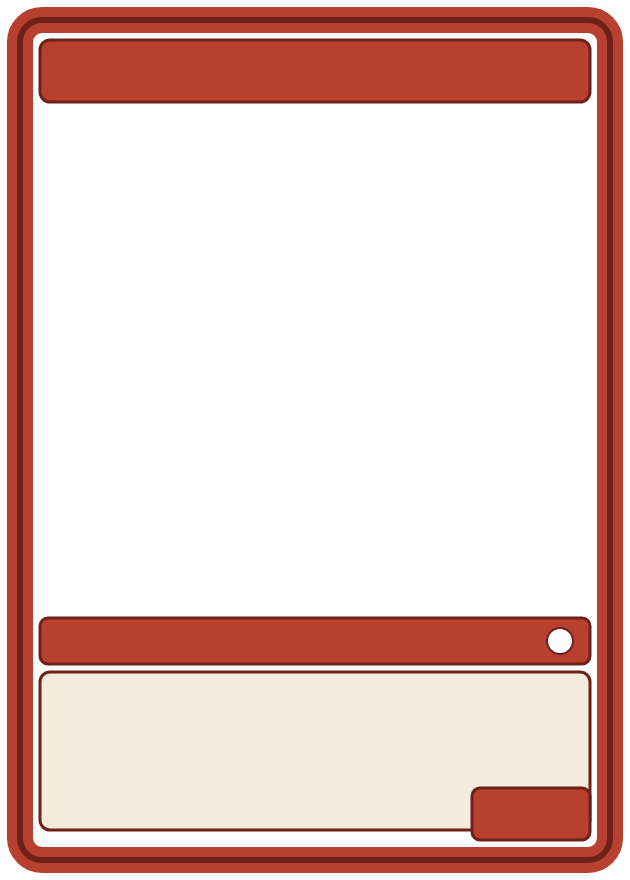
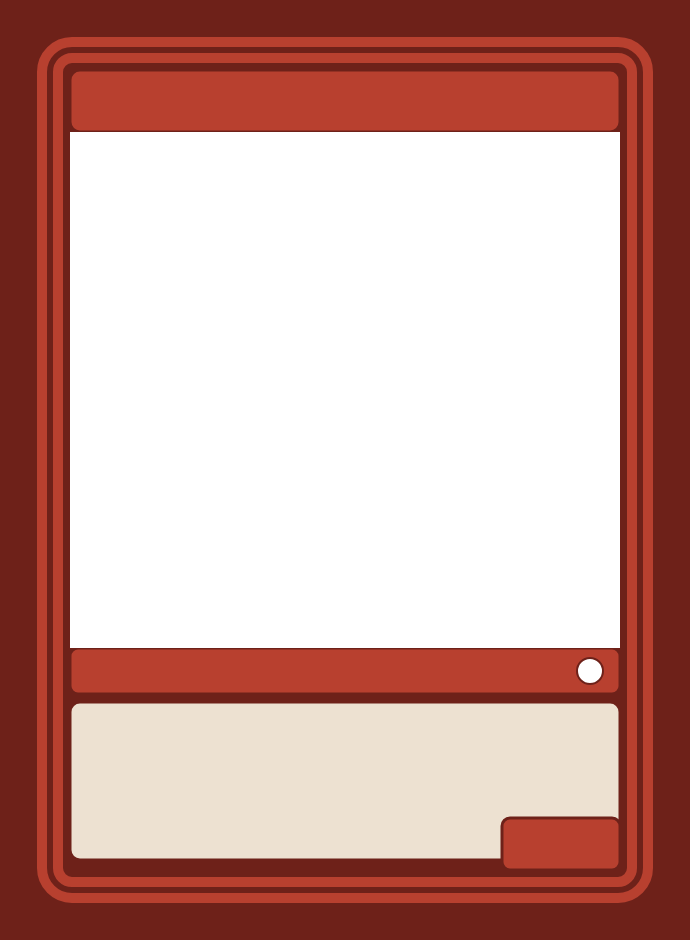
Alpha-aware hit testing; frames/images default to full bleed, not cut
Two independent fixes:

1. Clicking a transparent part of a layer (a frame's art window, most
   notably) now falls through to whatever's underneath instead of
   selecting that layer — new useAlphaHitCache hook wraps Konva's
   cache()+drawHitFromCache(), applied to frame and image layers.
   drawHitFromCache is Shape-only, so for an image layer (rendered as a
   Group-wrapping-KonvaImage, for clipFunc) the cache goes on the inner
   shape specifically, with clicks still bubbling to the Group's handler.

2. New Frame/Image layers (including Scryfall's art layer) now default
   to full-bleed size instead of cut/trim size. Testing showed no actual
   clipping bug anywhere in the pipeline — a manually-resized layer
   already rendered/exported correctly into the bleed margin — the
   *default* size just never reached that far, leaving the ~3mm trim
   margin uncovered (background color instead of a continuation of the
   frame's border, exactly the gap bleed margins exist to prevent).
   Regenerated the built-in placeholder frame art at true bleed
   dimensions to match (a uniform mm margin, not a proportional scale,
   so stretching the old cut-sized art would have distorted it slightly)
   — fixed by filling the canvas for edge-to-edge border coverage, then
   drawing the existing layout offset by the new margin, then punching
   the art window back out to transparent with clearRect (the base fill
   would otherwise have painted over it too).
[…]

diff --git a/apps/editor/src/components/LayerNode.tsx b/apps/editor/src/components/LayerNode.tsx
@@ -1,3 +1,4 @@
+import { useRef } from "react";
 import { Group, Image as KonvaImage, Rect, Ellipse, Circle, Text } from "react-konva";
 import type Konva from "konva";
 import { computeObjectFit, shrinkTextToFit, type Layer } from "@card-studio/scene-schema";
@@ -5,6 +6,7 @@ import { EDITOR_DPI, mmToStagePx } from "../geometry";
 import { useHtmlImage } from "../hooks/useHtmlImage";
 import { useHtmlImages } from "../hooks/useHtmlImages";
 import { useFontsReady } from "../hooks/useFontsReady";
+import { useAlphaHitCache } from "../hooks/useAlphaHitCache";
 import { getFrameAssetUrl } from "../frameAssets";
 import { getRarityAssetUrl } from "../rarityAssets";
 import { getSymbolAssetUrl, isGenericManaToken } from "../symbolAssets";
@@ -41,6 +43,29 @@ export function LayerNode({ layer, onSelect, registerRef, onDragStart, onDragMov
   const image = useHtmlImage(layer.type === "image" ? (rarityAssetUrl ?? layer.src) : undefined);
   const frameAssetUrl = layer.type === "frame" ? getFrameAssetUrl(layer.assetId) : undefined;
   const frameImage = useHtmlImage(frameAssetUrl);
+
+  // Clicking a transparent part of a frame (its art window, most notably)
+  // or an image layer shouldn't select that layer — it should fall through
+  // to whatever's underneath, the same as if the transparent layer weren't
+  // there. Konva's default hit region for an Image is its whole rectangle
+  // regardless of alpha, so both need an explicit alpha-aware hit cache;
+  // see useAlphaHitCache's doc comment. drawHitFromCache is a Shape-only
+  // method (Group/Container doesn't have it, since it draws nothing of its
+  // own) — for the image layer, that means caching the inner <KonvaImage>
+  // shape itself, not the wrapping Group the drag/select/transform handlers
+  // live on; that's fine, since a hit on a listening descendant still
+  // bubbles up to fire the Group's onClick like any other Konva event.
+  // Re-run whenever the loaded image or the layer's own box changes — the
+  // cache is a rasterized snapshot, not live.
+  const frameNodeRef = useRef<Konva.Image | null>(null);
+  useAlphaHitCache(frameNodeRef, [frameImage, mmToStagePx(layer.width), mmToStagePx(layer.height)]);
+  const imageShapeRef = useRef<Konva.Image | null>(null);
+  useAlphaHitCache(imageShapeRef, [
+    image,
+    mmToStagePx(layer.width),
+    mmToStagePx(layer.height),
+    layer.type === "image" ? layer.fit : undefined,
+  ]);
 
   const common = {
     id: layer.id,
@@ -109,7 +134,16 @@ export function LayerNode({ layer, onSelect, registerRef, onDragStart, onDragMov
 
   if (layer.type === "frame") {
     if (frameAssetUrl && frameImage) {
-      return <KonvaImage {...common} image={frameImage} />;
+      return (
+        <KonvaImage
+          {...common}
+          image={frameImage}
+          ref={(node) => {
+            frameNodeRef.current = node;
+            registerRef(node);
+          }}
+        />
+      );
     }
     // Unresolved asset id (unknown/legacy) or still loading: flat-tint placeholder.
     return (
@@ -222,6 +256,7 @@ export function LayerNode({ layer, onSelect, registerRef, onDragStart, onDragMov
     return (
       <Group
         {...common}
+        ref={registerRef}
         clipFunc={
           fit.clip
             ? (ctx) => {
@@ -231,7 +266,16 @@ export function LayerNode({ layer, onSelect, registerRef, onDragStart, onDragMov
         }
       >
         {image && (
-          <KonvaImage image={image} x={fit.offsetX} y={fit.offsetY} width={fit.drawWidth} height={fit.drawHeight} listening={false} />
+          <KonvaImage
+            image={image}
+            x={fit.offsetX}
+            y={fit.offsetY}
+            width={fit.drawWidth}
+            height={fit.drawHeight}
+            ref={(node) => {
+              imageShapeRef.current = node;
+            }}
+          />
         )}
       </Group>
     );

diff --git a/apps/editor/src/components/Toolbar.tsx b/apps/editor/src/components/Toolbar.tsx
@@ -83,13 +83,15 @@ export function Toolbar({ stageRef }: { stageRef: RefObject<Konva.Stage> }) {
       opacity: 1,
       visible: true,
       locked: false,
-      // New frames size to the cut/trim dimensions — the actual card —
-      // not the full-bleed canvas, centered the same way the cut-line
-      // guide is.
-      x: (design.size.widthMm - design.size.cutWidthMm) / 2,
-      y: (design.size.heightMm - design.size.cutHeightMm) / 2,
-      width: design.size.cutWidthMm,
-      height: design.size.cutHeightMm,
+      // New frames size to the full-bleed canvas, not just the cut/trim
+      // dimensions — frame art needs to extend past the trim line, or the
+      // printed card shows a background-color gap around the edge once
+      // cut. See generate-placeholder-frames.mjs for how the built-in
+      // frame art itself was authored to match.
+      x: 0,
+      y: 0,
+      width: design.size.widthMm,
+      height: design.size.heightMm,
     });
 
   const addText = () =>
@@ -206,13 +208,16 @@ export function Toolbar({ stageRef }: { stageRef: RefObject<Konva.Stage> }) {
     const { width: naturalWidth, height: naturalHeight } = await getImageNaturalSize(file);
     const imageAspect = naturalWidth / naturalHeight;
 
-    // Default to the image's own aspect ratio, contained within the cut
-    // area (centered) rather than a fixed box — a fixed box ignoring the
-    // image's shape is what caused new images to render squished.
-    const cutW = design.size.cutWidthMm;
-    const cutH = design.size.cutHeightMm;
-    const width = imageAspect > cutW / cutH ? cutW : cutH * imageAspect;
-    const height = imageAspect > cutW / cutH ? cutW / imageAspect : cutH;
+    // Default to the image's own aspect ratio, contained within the
+    // full-bleed canvas (centered) rather than a fixed box — a fixed box
+    // ignoring the image's shape is what caused new images to render
+    // squished, and containing within just the cut area (rather than
+    // bleed) is what left a background-color gap around art meant to
+    // extend to the card's true edge.
+    const canvasW = design.size.widthMm;
+    const canvasH = design.size.heightMm;
+    const width = imageAspect > canvasW / canvasH ? canvasW : canvasH * imageAspect;
+    const height = imageAspect > canvasW / canvasH ? canvasW / imageAspect : canvasH;
 
     addLayer({
       id: newId(),
@@ -267,10 +272,12 @@ export function Toolbar({ stageRef }: { stageRef: RefObject<Konva.Stage> }) {
       try {
         const { width: naturalWidth, height: naturalHeight } = await getRemoteImageSize(fields.artCropUrl);
         const imageAspect = naturalWidth / naturalHeight;
-        const cutW = design.size.cutWidthMm;
-        const cutH = design.size.cutHeightMm;
-        const width = imageAspect > cutW / cutH ? cutW : cutH * imageAspect;
-        const height = imageAspect > cutW / cutH ? cutW / imageAspect : cutH;
+        // Contained within the full-bleed canvas, not just cut — same
+        // reasoning as addImage's default sizing.
+        const canvasW = design.size.widthMm;
+        const canvasH = design.size.heightMm;
+        const width = imageAspect > canvasW / canvasH ? canvasW : canvasH * imageAspect;
+        const height = imageAspect > canvasW / canvasH ? canvasW / imageAspect : canvasH;
         artLayer = {
           id: newId(),
           name: `${fields.name} (art)`,

diff --git a/apps/editor/src/hooks/useAlphaHitCache.ts b/apps/editor/src/hooks/useAlphaHitCache.ts
@@ -1,0 +1,34 @@
+import { useEffect, type RefObject } from "react";
+import type Konva from "konva";
+
+/**
+ * Makes a Konva node's click/hit region follow its actual rendered pixel
+ * alpha instead of its full bounding box — so clicking a transparent part
+ * of a layer (a frame's art window, most obviously) doesn't select that
+ * layer; the click falls through to whatever's underneath instead, the
+ * same way it would if the transparent layer weren't there at all.
+ *
+ * Konva's built-in mechanism for this is cache() + drawHitFromCache():
+ * cache() rasterizes the node once, and drawHitFromCache() tells Konva's
+ * hit-testing to treat fully-transparent cached pixels as "not hit"
+ * instead of the default whole-rectangle hit region. The cache is a
+ * snapshot, not live, so it has to be redone whenever whatever the node
+ * visually depends on changes — that's what `deps` is for (e.g. the
+ * loaded image, or the layer's current width/height).
+ *
+ * drawHitFromCache is a Shape-only method (Group/Container has no scene
+ * function of its own to rasterize), so this only accepts a Shape ref —
+ * for a Group-wrapped image, apply it to the inner Shape and let the click
+ * bubble up to the Group's own handler like any other Konva event.
+ */
+export function useAlphaHitCache(nodeRef: RefObject<Konva.Shape>, deps: unknown[]) {
+  useEffect(() => {
+    const node = nodeRef.current;
+    if (!node) return;
+    node.cache();
+    node.drawHitFromCache();
+    // deps intentionally drive re-caching; the effect body itself doesn't
+    // read them — it just re-snapshots whatever the node renders now.
+    // eslint-disable-next-line react-hooks/exhaustive-deps
+  }, deps);
+}

diff --git a/README.md b/README.md
@@ -26,17 +26,18 @@ The editor (`apps/editor`) currently supports:
   [Design decisions](#design-decisions) for why the Stage itself had to
   become a viewport rather than just adding scale to it.
 - Imported images default to their own aspect ratio (contained within
-  the cut area, centered) instead of a fixed box — a fixed box ignoring
-  the source image's shape is what previously made every import come in
-  squished. See `getImageNaturalSize` in `Toolbar.tsx`.
+  the full-bleed canvas, centered) instead of a fixed box — a fixed box
+  ignoring the source image's shape is what previously made every import
+  come in squished. See `getImageNaturalSize` in `Toolbar.tsx`.
 - A frame library (currently 6 original, generic trading-card frame
   templates, organized into folders — see [Adding frames](#adding-frames)
   below) with a searchable/filterable browser: a folder dropdown and a
   text search apply concurrently. Opened from the toolbar's "Frame"
-  button (adds a new frame layer, sized to the cut/trim dimensions —
-  centered the same way the cut-line guide is) or from a frame layer's
-  "Change frame…" button in the properties panel (swaps its asset in
-  place). Not an in-app upload button yet — see below.
+  button (adds a new frame layer sized to the full-bleed canvas, so the
+  frame art reaches the true edge — see [Design
+  decisions](#design-decisions)) or from a frame layer's "Change
+  frame…" button in the properties panel (swaps its asset in place). Not
+  an in-app upload button yet — see below.
 - Multi-select: shift-click, or marquee (rubber-band) select on empty
   canvas.
 - Alignment/snap guides while dragging a single layer (snaps to other
@@ -127,6 +128,18 @@ Frame layer shows through it. Painting that region any opaque color
 example of drawing a frame this way with `@napi-rs/canvas`; it's also
 the script to rerun (writing into `frame-library/classic/`, then sync)
 if you want to tweak the 6 built-in placeholder designs.
+
+**New frame layers are sized to the full-bleed canvas, so frame art
+needs to reach all four edges of its own image, not just the cut/trim
+area.** Otherwise the bleed margin (the ~3mm strip that gets trimmed
+away) shows the background color instead of a continuation of the
+frame's border once printed and cut — see [Design
+decisions](#design-decisions) for the full reasoning, and
+`generate-placeholder-frames.mjs`'s `MARGIN`/`clearRect` for a worked
+example of filling the whole canvas for bleed coverage while still
+punching the art window back out to transparent afterward (a plain
+"leave it unpainted" approach only works if nothing else fills over that
+region first).
 
 ## Adding fonts
 
@@ -497,6 +510,61 @@ API; worth a real end-to-end smoke test once this runs somewhere with
 normal internet access.
 
 ## Design decisions
+
+**Clicking a transparent part of a layer selects whatever's underneath it,
+not that layer.** Konva's default hit region for an `Image` shape is its
+whole rectangle regardless of pixel alpha, so a frame's art window (real
+transparency, by design — see [Adding frames](#adding-frames)) used to
+be just as clickable as its painted border, making it easy to grab the
+frame when you meant to grab the art or text underneath. Fixed with a
+small hook, `useAlphaHitCache` (`apps/editor/src/hooks/`), that calls
+Konva's built-in `cache()` + `drawHitFromCache()` on frame and image
+layers — this rasterizes the node once and tells Konva's hit-testing to
+treat fully-transparent cached pixels as "not hit," so the pointer event
+falls through to the next node down, exactly as if the transparent layer
+weren't there. One wrinkle: `drawHitFromCache` is a `Shape`-only method
+(a `Group` draws nothing of its own to rasterize), so for an image layer
+— rendered as a `Group` (for `clipFunc`) wrapping the actual
+`<KonvaImage>` — the cache has to go on that inner shape specifically,
+with the click still bubbling up to fire the `Group`'s own handler like
+any other Konva event, since the drag/select/transform machinery has to
+stay on the `Group` (the layer's full nominal box, unaffected by
+`contain`-mode letterboxing). The cache is a snapshot, not live, so it's
+redone whenever the loaded image or the layer's own size changes. Text
+and shape layers don't get this treatment (yet) — text glyphs are sparse
+too, but frames/images were the reported, concrete problem.
+
+**Frame/image layers now default to full-bleed size, not cut/trim size —
+and the built-in frame art had to be regenerated to match.** New frames
+and newly uploaded/imported images used to size themselves to
+`cutWidthMm`/`cutHeightMm`, deliberately, so they'd match the finished
+card exactly. In practice this meant the bleed margin (the ~3mm strip
+that gets trimmed away, there specifically so a slightly-off cut doesn't
+reveal a sliver of unprinted background around the card) was never
+covered by anything — confirmed by testing: a manually-resized layer
+extending into the bleed rendered and exported completely fine, both
+live and after export, so there was no clipping bug anywhere in the
+pipeline; the *default* size was just never reaching that far in the
+first place. Fixed by sizing new Frame/Image layers (`Toolbar.tsx`'s
+`addFrame`/`addImage`, and the Scryfall art layer) to
+`design.size.widthMm`/`heightMm` (bleed) instead of
+`cutWidthMm`/`cutHeightMm`. Since the bleed margin is a uniform ~3.048mm
+addition on every side rather than a proportional scale-up (see
+`STANDARD_CARD_SIZE_MM` below), simply stretching the existing cut-sized
+placeholder frame art into the bigger box would have distorted it
+slightly (about a 2.6% aspect mismatch) — so
+`generate-placeholder-frames.mjs` was rewritten to draw at true bleed
+dimensions instead: the canvas is filled with the border color first (so
+it reaches the true edge with no gap), then the whole existing
+border/name-bar/type-bar/etc. layout is drawn offset by the same margin,
+and finally the art window is punched back out to transparent with
+`clearRect()` — that fill-first step would otherwise have painted over
+it too, since the window's transparency previously came from just never
+touching that region on a canvas that started transparent by default.
+There's intentionally no separate visibility toggle for this — any
+layer's own width/height already lets you resize it smaller (e.g. back
+to fit only within the cut box) if you don't want it reaching the bleed
+edge, so a global switch would just be a second way to do the same thing.
 
 **An ImageLayer's `fit` field existed in the schema but neither renderer
 actually implemented `contain`/`fill` — both silently always behaved
